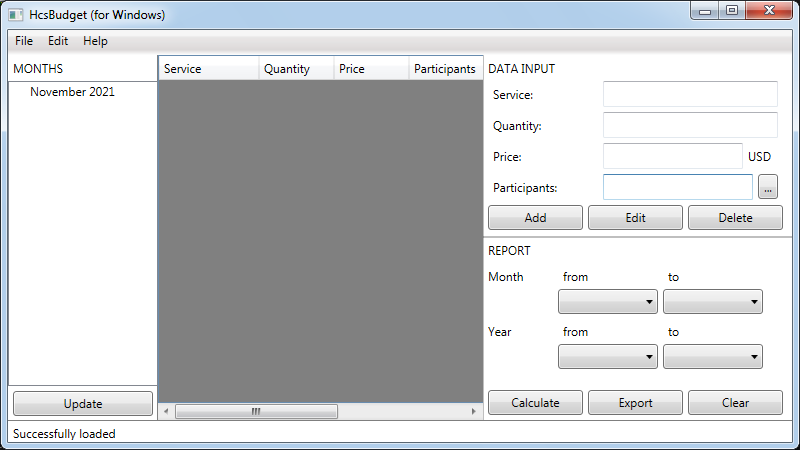
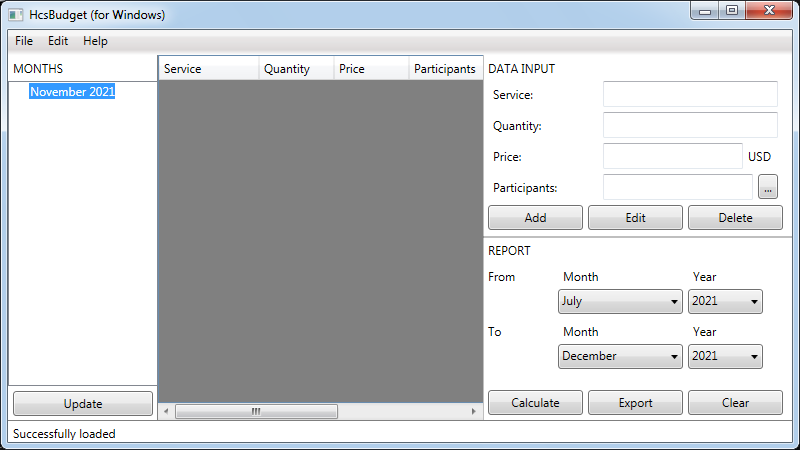
Load years from DB

diff --git a/src/Views/FindWindow.xaml b/src/Views/FindWindow.xaml
@@ -30,29 +30,55 @@
             <CheckBox Content="Date" Grid.Row="0" Grid.Column="0" />
             <StackPanel Orientation="Horizontal" Grid.Row="0" Grid.Column="1">
                 <StackPanel Orientation="Vertical">
-                    <Label Content="Month" HorizontalAlignment="Center" />
+                    <Label Content="From" HorizontalAlignment="Center" />
                     <StackPanel Orientation="Horizontal">
                         <StackPanel Orientation="Vertical">
-                            <Label Content="from" />
-                            <ComboBox Height="25" Width="100" />
+                            <Label Content="Month" />
+                            <ComboBox Name="cbMonthFrom" Height="25" Width="125">
+                                <ComboBoxItem>January</ComboBoxItem>
+                                <ComboBoxItem>February</ComboBoxItem>
+                                <ComboBoxItem>March</ComboBoxItem>
+                                <ComboBoxItem>April</ComboBoxItem>
+                                <ComboBoxItem>May</ComboBoxItem>
+                                <ComboBoxItem>June</ComboBoxItem>
+                                <ComboBoxItem>July</ComboBoxItem>
+                                <ComboBoxItem>August</ComboBoxItem>
+                                <ComboBoxItem>September</ComboBoxItem>
+                                <ComboBoxItem>October</ComboBoxItem>
+                                <ComboBoxItem>November</ComboBoxItem>
+                                <ComboBoxItem>December</ComboBoxItem>
+                            </ComboBox>
                         </StackPanel>
                         <StackPanel Orientation="Vertical" Margin="5,0,0,0">
-                            <Label Content="to" />
-                            <ComboBox Height="25" Width="100" />
+                            <Label Content="Year" />
+                            <ComboBox Name="cbYearFrom" Height="25" Width="75" />
                         </StackPanel>
                     </StackPanel>
                 </StackPanel>
 
                 <StackPanel Orientation="Vertical" Margin="15,0,0,0">
-                    <Label Content="Year" HorizontalAlignment="Center" />
+                    <Label Content="To" HorizontalAlignment="Center" />
                     <StackPanel Orientation="Horizontal">
                         <StackPanel Orientation="Vertical">
-                            <Label Content="from" />
-                            <ComboBox Height="25" Width="100" />
+                            <Label Content="Month" />
+                            <ComboBox Name="cbMonthTo" Height="25" Width="125">
+                                <ComboBoxItem>January</ComboBoxItem>
+                                <ComboBoxItem>February</ComboBoxItem>
+                                <ComboBoxItem>March</ComboBoxItem>
+                                <ComboBoxItem>April</ComboBoxItem>
+                                <ComboBoxItem>May</ComboBoxItem>
+                                <ComboBoxItem>June</ComboBoxItem>
+                                <ComboBoxItem>July</ComboBoxItem>
+                                <ComboBoxItem>August</ComboBoxItem>
+                                <ComboBoxItem>September</ComboBoxItem>
+                                <ComboBoxItem>October</ComboBoxItem>
+                                <ComboBoxItem>November</ComboBoxItem>
+                                <ComboBoxItem>December</ComboBoxItem>
+                            </ComboBox>
                         </StackPanel>
                         <StackPanel Orientation="Vertical" Margin="5,0,0,0">
-                            <Label Content="to" />
-                            <ComboBox Height="25" Width="100" />
+                            <Label Content="Year" />
+                            <ComboBox Name="cbYearTo" Height="25" Width="75" />
                         </StackPanel>
                     </StackPanel>
                 </StackPanel>
@@ -65,11 +91,11 @@
                     <StackPanel Orientation="Horizontal">
                         <StackPanel Orientation="Vertical">
                             <Label Content="from" />
-                            <TextBox Height="25" Width="100" />
+                            <TextBox Name="tbQuantityFrom" Height="25" Width="100" />
                         </StackPanel>
                         <StackPanel Orientation="Vertical" Margin="5,0,0,0">
                             <Label Content="to" />
-                            <TextBox Height="25" Width="100" />
+                            <TextBox Name="tbQuantityTo" Height="25" Width="100" />
                         </StackPanel>
                     </StackPanel>
                 </StackPanel>
@@ -79,11 +105,11 @@
                     <StackPanel Orientation="Horizontal">
                         <StackPanel Orientation="Vertical">
                             <Label Content="from" />
-                            <TextBox Height="25" Width="100" />
+                            <TextBox Name="tbPriceFrom" Height="25" Width="100" />
                         </StackPanel>
                         <StackPanel Orientation="Vertical" Margin="5,0,0,0">
                             <Label Content="to" />
-                            <TextBox Height="25" Width="100" />
+                            <TextBox Name="tbPriceTo" Height="25" Width="100" />
                         </StackPanel>
                     </StackPanel>
                 </StackPanel>

diff --git a/src/UserControls/Report.xaml b/src/UserControls/Report.xaml
@@ -23,12 +23,12 @@
                     <ColumnDefinition Width="250" />
                 </Grid.ColumnDefinitions>
 
-                <Label Content="Month" HorizontalAlignment="Left" 
+                <Label Content="From" HorizontalAlignment="Left" 
                         Grid.Row="0" Grid.Column="0" />
                 <StackPanel Orientation="Horizontal" Grid.Row="0" Grid.Column="1">
                     <StackPanel Orientation="Vertical">
-                        <Label Content="from" />
-                        <ComboBox Height="25" Width="100" >
+                        <Label Content="Month" />
+                        <ComboBox Name="cbMonthFrom" Height="25" Width="125" >
                             <ComboBoxItem>January</ComboBoxItem>
                             <ComboBoxItem>February</ComboBoxItem>
                             <ComboBoxItem>March</ComboBoxItem>
@@ -44,34 +44,34 @@
                         </ComboBox>
                     </StackPanel>
                     <StackPanel Orientation="Vertical" Margin="5,0,0,0">
-                        <Label Content="to" />
-                        <ComboBox Height="25" Width="100">
-                            <ComboBoxItem>January</ComboBoxItem>
-                            <ComboBoxItem>February</ComboBoxItem>
-                            <ComboBoxItem>March</ComboBoxItem>
-                            <ComboBoxItem>April</ComboBoxItem>
-                            <ComboBoxItem>May</ComboBoxItem>
-                            <ComboBoxItem>June</ComboBoxItem>
-                            <ComboBoxItem>July</ComboBoxItem>
-                            <ComboBoxItem>August</ComboBoxItem>
-                            <ComboBoxItem>September</ComboBoxItem>
-                            <ComboBoxItem>October</ComboBoxItem>
-                            <ComboBoxItem>November</ComboBoxItem>
-                            <ComboBoxItem>December</ComboBoxItem>
-                        </ComboBox>
+                        <Label Content="Year" />
+                        <ComboBox Name="cbYearFrom" Height="25" Width="75" />
                     </StackPanel>
                 </StackPanel>
 
-                <Label Content="Year" HorizontalAlignment="Left"
+                <Label Content="To" HorizontalAlignment="Left"
                         Grid.Row="1" Grid.Column="0" />
                 <StackPanel Orientation="Horizontal" Grid.Row="1" Grid.Column="1">
                     <StackPanel Orientation="Vertical">
-                        <Label Content="from" />
-                        <ComboBox Height="25" Width="100" />
+                        <Label Content="Month" />
+                        <ComboBox Name="cbMonthTo" Height="25" Width="125">
+                            <ComboBoxItem>January</ComboBoxItem>
+                            <ComboBoxItem>February</ComboBoxItem>
+                            <ComboBoxItem>March</ComboBoxItem>
+                            <ComboBoxItem>April</ComboBoxItem>
+                            <ComboBoxItem>May</ComboBoxItem>
+                            <ComboBoxItem>June</ComboBoxItem>
+                            <ComboBoxItem>July</ComboBoxItem>
+                            <ComboBoxItem>August</ComboBoxItem>
+                            <ComboBoxItem>September</ComboBoxItem>
+                            <ComboBoxItem>October</ComboBoxItem>
+                            <ComboBoxItem>November</ComboBoxItem>
+                            <ComboBoxItem>December</ComboBoxItem>
+                        </ComboBox>
                     </StackPanel>
                     <StackPanel Orientation="Vertical" Margin="5,0,0,0">
-                        <Label Content="to" />
-                        <ComboBox Height="25" Width="100" />
+                        <Label Content="Year" />
+                        <ComboBox Name="cbYearTo" Height="25" Width="75" />
                     </StackPanel>
                 </StackPanel>
             </Grid>

diff --git a/src/Views/ReportWindow.xaml b/src/Views/ReportWindow.xaml
@@ -1,0 +1,14 @@
+<Window x:Class="HcsBudget.Views.ReportWindow"
+        xmlns="http://schemas.microsoft.com/winfx/2006/xaml/presentation"
+        xmlns:x="http://schemas.microsoft.com/winfx/2006/xaml"
+        xmlns:d="http://schemas.microsoft.com/expression/blend/2008"
+        xmlns:mc="http://schemas.openxmlformats.org/markup-compatibility/2006"
+        xmlns:local="clr-namespace:HcsBudget"
+        xmlns:uc="clr-namespace:HcsBudget.UserControls"
+        mc:Ignorable="d"
+        WindowStartupLocation="CenterScreen"
+        Title="HcsBudget (for Windows): Report" 
+        MaxHeight="250" MaxWidth="500" MinHeight="250" MinWidth="500">
+    <Grid>
+    </Grid>
+</Window>

diff --git a/src/ViewModels/MainVM.cs b/src/ViewModels/MainVM.cs
@@ -38,8 +38,8 @@ namespace HcsBudget.ViewModels
         {
             try
             {
-                System.DateTime today = System.DateTime.UtcNow.Date; 
-                MonthsCollection = this.HcsDbConnection.GetMonths(today.Month, today.Year); 
+                InsertCurrentDateIntoDb();
+                MonthsCollection = this.HcsDbConnection.GetMonths(); 
                 
                 List<Month> months = MonthsCollection; 
                 this.HcsDbConnection.GetHcs(ref months); 
@@ -58,9 +58,25 @@ namespace HcsBudget.ViewModels
             }
         }
 
+        public List<int> SelectDistinctYears()
+        {
+            List<int> result = new List<int>(); 
+            try
+            {
+                this.HcsDbConnection.GetDistinctYears(ref result); 
+            }
+            catch (System.Exception e)
+            {
+                System.Windows.MessageBox.Show(e.Message, "Exception"); 
+            }
+            return result; 
+        }
+
         public void CalculateReport()
         {
-            System.Windows.MessageBox.Show("CalculateReport"); 
+            // Calculate. 
+
+            OpenReportWindow(); 
         }
 
         public void ExportReport()
@@ -75,6 +91,19 @@ namespace HcsBudget.ViewModels
         #endregion  // Data output
 
         #region Data input
+        public void InsertCurrentDateIntoDb()
+        {
+            try
+            {
+                System.DateTime today = System.DateTime.UtcNow.Date; 
+                this.HcsDbConnection.InsertCurrentDate(today.Month, today.Year);
+            }
+            catch (System.Exception e)
+            {
+                System.Windows.MessageBox.Show(e.Message, "Exception"); 
+            }
+        }
+
         public void AddData()
         {
             System.Windows.MessageBox.Show("AddData"); 
@@ -92,6 +121,13 @@ namespace HcsBudget.ViewModels
         #endregion  // Data input
 
         #region Navigation
+        public void OpenReportWindow()
+        {
+            var win = new ReportWindow();
+            win.DataContext = this;
+            win.Show();
+        }
+
         public void OpenSettingsWindow()
         {
             var win = new SettingsWindow();

diff --git a/src/Models/DbConnections/DbConnection.cs b/src/Models/DbConnections/DbConnection.cs
@@ -7,10 +7,8 @@ namespace HcsBudget.Models.DbConnections
 {
     public class DbConnection : BaseDbConnection, IHcsDbConnection, IStateDbConnection
     {
-        public List<Month> GetMonths(int month, int year)
+        public void InsertCurrentDate(int month, int year)
         {
-            List<Month> result = new List<Month>(); 
-
             string sqlRequest = @$"
                 INSERT INTO period (month, year) 
                 SELECT {month}, {year}
@@ -24,7 +22,22 @@ namespace HcsBudget.Models.DbConnections
             try 
             {
                 SetPathToDb(); 
-                sqlRequest += System.IO.File.ReadAllText("src/SQL/Months.sql"); 
+                sqlRequest = System.IO.File.ReadAllText("src/SQL/Months.sql"); 
+                GetDataTable(sqlRequest); 
+            }
+            catch (System.Exception e)
+            {
+                throw e; 
+            }
+        }
+
+        public List<Month> GetMonths()
+        {
+            List<Month> result = new List<Month>(); 
+            try 
+            {
+                SetPathToDb(); 
+                string sqlRequest = System.IO.File.ReadAllText("src/SQL/Months.sql"); 
                 DataTable dt = GetDataTable(sqlRequest); 
                 foreach(DataRow row in dt.Rows)
                 {
@@ -67,6 +80,24 @@ namespace HcsBudget.Models.DbConnections
                             System.Convert.ToInt32(row["periodId"])
                         )); 
                     }
+                }
+            }
+            catch (System.Exception e)
+            {
+                throw e; 
+            }
+        }
+
+        public void GetDistinctYears(ref List<int> years)
+        {
+            try 
+            {
+                SetPathToDb(); 
+                string sqlRequest = $"SELECT DISTINCT year FROM period"; 
+                DataTable dt = GetDataTable(sqlRequest); 
+                foreach(DataRow row in dt.Rows)
+                {
+                    years.Add(System.Convert.ToInt32(row["year"])); 
                 }
             }
             catch (System.Exception e)

diff --git a/src/UserControls/Report.xaml.cs b/src/UserControls/Report.xaml.cs
@@ -1,5 +1,7 @@
+using System.Collections.Generic;
 using System.Windows;
 using System.Windows.Controls;
+using HcsBudget.ViewModels; 
 
 namespace HcsBudget.UserControls
 {
@@ -11,6 +13,20 @@ namespace HcsBudget.UserControls
         public Report()
         {
             InitializeComponent();
+
+            Loaded += (o, e) => GetYears(); 
+        }
+
+        public void GetYears()
+        {
+            MainVM mainVM = (MainVM)(this.DataContext); 
+            mainVM.InsertCurrentDateIntoDb(); 
+            List<int> years = mainVM.SelectDistinctYears(); 
+            foreach (int year in years)
+            {
+                cbYearFrom.Items.Add(year.ToString());
+                cbYearTo.Items.Add(year.ToString());
+            }
         }
     }
 }

diff --git a/src/Views/FindWindow.xaml.cs b/src/Views/FindWindow.xaml.cs
@@ -1,4 +1,6 @@
+using System.Collections.Generic;
 using System.Windows;
+using HcsBudget.ViewModels; 
 
 namespace HcsBudget.Views
 {
@@ -10,6 +12,16 @@ namespace HcsBudget.Views
         public FindWindow()
         {
             InitializeComponent();
+
+            Loaded += (o, e) => 
+            {
+                List<int> years = ((MainVM)(this.DataContext)).SelectDistinctYears(); 
+                foreach (int year in years)
+                {
+                    cbYearFrom.Items.Add(year.ToString());
+                    cbYearTo.Items.Add(year.ToString());
+                }
+            }; 
         }
     }
 }

diff --git a/src/Models/DbConnections/IHcsDbConnection.cs b/src/Models/DbConnections/IHcsDbConnection.cs
@@ -4,7 +4,9 @@ namespace HcsBudget.Models.DbConnections
 {
     public interface IHcsDbConnection 
     {
-        List<Month> GetMonths(int month, int year);
+        void InsertCurrentDate(int month, int year); 
+        List<Month> GetMonths();
         void GetHcs(ref List<Month> months); 
+        void GetDistinctYears(ref List<int> years); 
     }
 }

diff --git a/src/Views/ReportWindow.xaml.cs b/src/Views/ReportWindow.xaml.cs
@@ -1,0 +1,15 @@
+using System.Windows;
+
+namespace HcsBudget.Views
+{
+    /// <summary>
+    /// Interaction logic for ReportWindow.xaml
+    /// </summary>
+    public partial class ReportWindow : Window
+    {
+        public ReportWindow()
+        {
+            InitializeComponent();
+        }
+    }
+}
